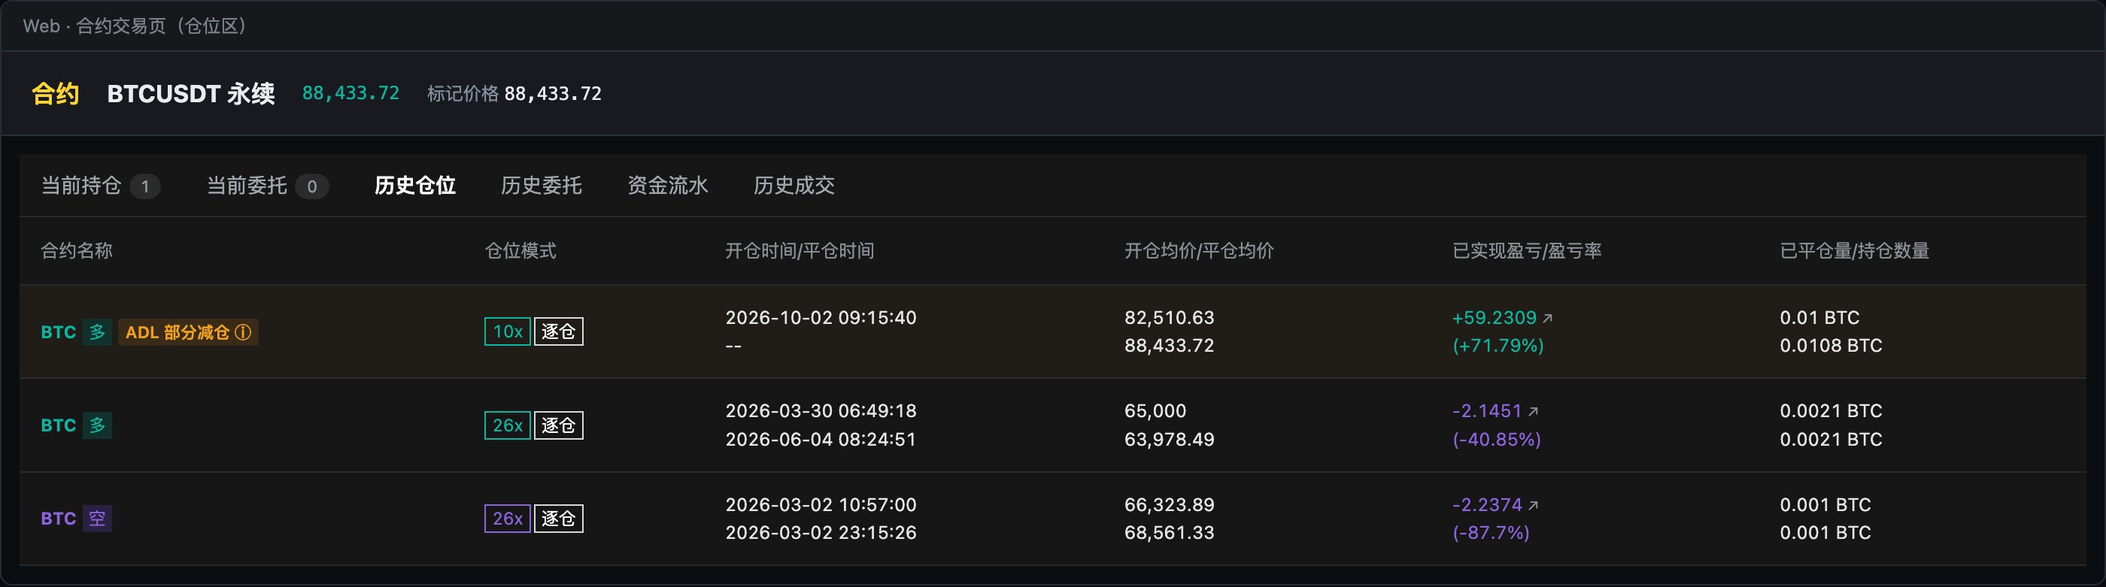
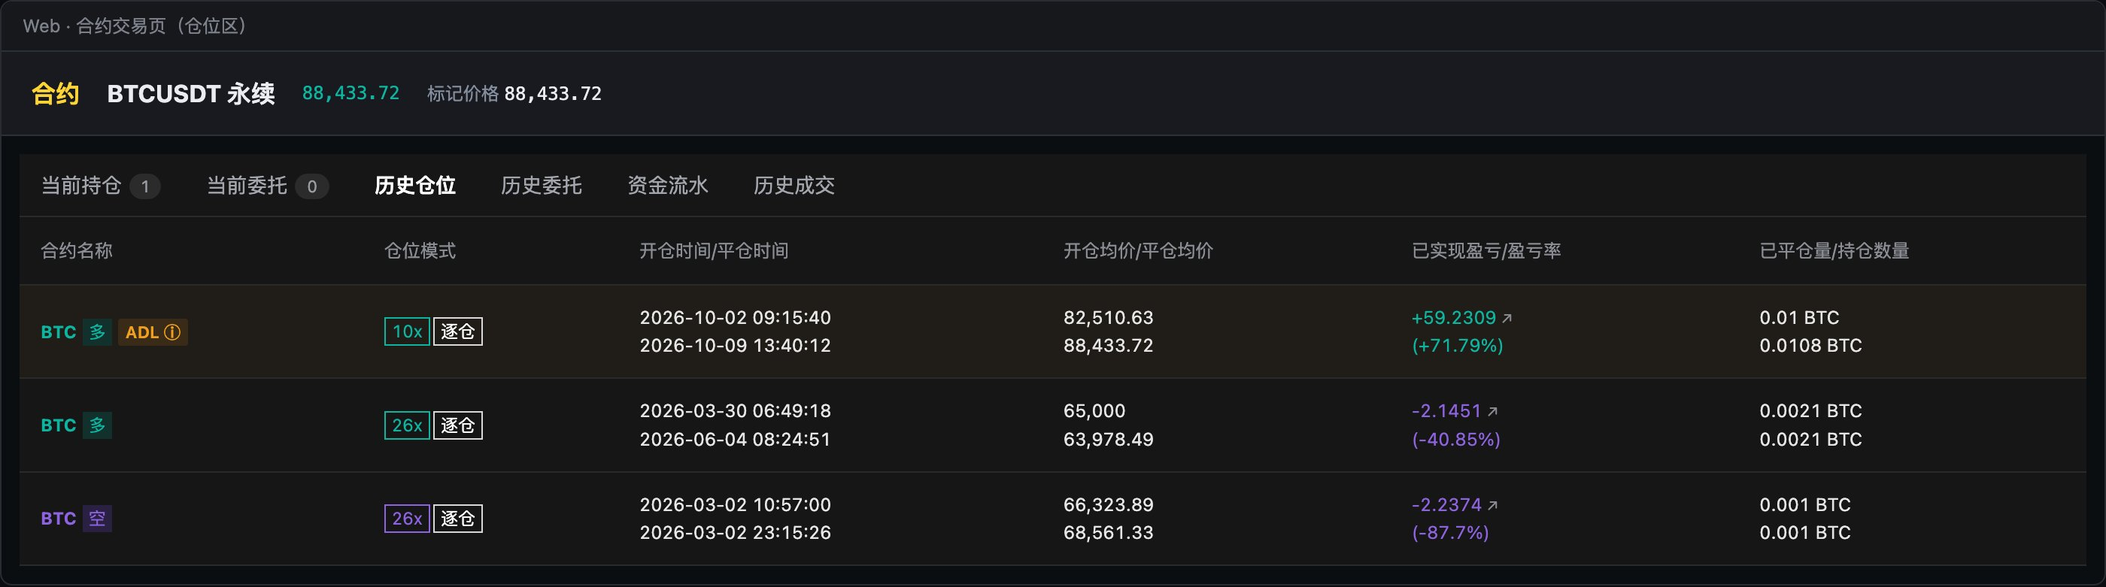
change: 用户端历史仓位沿用现有聚合展示(部分平仓也展示、平仓时间为最近一次),ADL统一显示ADL标签;PRD V2.2 同步

diff --git a/中台ADL减仓_PRD_V1.0.html b/中台ADL减仓_PRD_V1.0.html
@@ -74,7 +74,7 @@
 
 <div class="cover">
   <h1>中台 ADL 减仓 PRD</h1>
-  <div class="ver">版本 V2.1 · 2026-10-12 · 修订人 Rhys</div>
+  <div class="ver">版本 V2.2 · 2026-10-12 · 修订人 Rhys</div>
   <div class="sub">需求类型：0→1 · 规模 L ｜ 配套原型：<a href="https://forclaudecode.vercel.app/1009-中台ADL减仓.html">1009-中台ADL减仓.html</a> ｜ 规则来源：规则台账_ADL减仓 v1.0（R01–R19）</div>
 </div>
 
@@ -107,7 +107,7 @@
   <tr><th>维度</th><th>行业做法</th><th>本方案</th></tr>
   <tr><td>事前提示</td><td>五家持仓上均有 5 格 ADL 指示灯</td><td>沿用平台现有指示灯，并作为可减门槛</td></tr>
   <tr><td>仓位区事后展示</td><td>五家均不在剩余仓位上加标记，部分减仓只是数量变少</td><td>一致：不加任何标记</td></tr>
-  <tr><td>历史记录标识</td><td>四家都把 ADL 和普通平仓、强平分开标识；OKX 仓位历史区分「ADL 未全平 / 全平」</td><td>历史委托、成交记录标「ADL」；仓位历史区分「ADL 部分减仓 / ADL 全部平仓」</td></tr>
+  <tr><td>历史记录标识</td><td>四家都把 ADL 和普通平仓、强平分开标识；OKX 仓位历史区分「ADL 未全平 / 全平」</td><td>历史委托、成交记录、历史仓位均标「ADL」；历史仓位沿用现有按仓位聚合的展示方式</td></tr>
   <tr><td>成交价</td><td>Binance / Bybit / Gate 用破产价；OKX 通常用标记价格</td><td>执行时的标记价格（与 OKX 一致）</td></tr>
   <tr><td>手续费</td><td>仅 Bybit 收被减方 Maker 费，其余免收</td><td>不收</td></tr>
   <tr><td>挂单处理</td><td>Bybit / Gate 撤销被减用户的活动委托</td><td>撤销该仓位全部平仓类挂单</td></tr>
@@ -221,7 +221,7 @@ stateDiagram-v2
   <tr><td>F6</td><td>中台</td><td>「未实现盈亏」「回报率」支持排序</td><td><span class="tag-mod">调整</span></td><td>P1</td></tr>
   <tr><td>F7</td><td>中台</td><td>「持仓量/可平量」张 / 币 / USDT 切换，「自动减仓量」跟随</td><td><span class="tag-mod">调整</span></td><td>P1</td></tr>
   <tr><td>F8</td><td>App / Web</td><td>历史委托、成交记录显示「ADL」标签及说明</td><td><span class="tag-new">新增</span></td><td>P0</td></tr>
-  <tr><td>F9</td><td>App / Web</td><td>仓位历史区分「ADL 部分减仓 / ADL 全部平仓」</td><td><span class="tag-new">新增</span></td><td>P0</td></tr>
+  <tr><td>F9</td><td>App / Web</td><td>历史仓位：发生过 ADL 的仓位显示「ADL」标签</td><td><span class="tag-new">新增</span></td><td>P0</td></tr>
   <tr><td>F10</td><td>App / Web</td><td>被撤挂单显示「已撤销 · 因 ADL」</td><td><span class="tag-new">新增</span></td><td>P0</td></tr>
 </table>
 
@@ -236,7 +236,7 @@ flowchart LR
   subgraph 用户端
     P[当前持仓：数量变少 / 消失] --- H[历史委托：ADL 标签 + 被撤挂单]
     H --- T[成交记录：ADL 标签]
-    T --- PH[仓位历史：ADL 部分减仓 / 全部平仓]
+    T --- PH[历史仓位：ADL 标签]
   end
   R -. 同步 .-> P
 </div>
@@ -306,14 +306,14 @@ flowchart LR
 </table>
 
 <h4>3.3.5 用户端 · App / Web</h4>
-<p><strong>App · 合约页持仓区</strong>（ADL 前 → 部分 ADL 后 → 全部 ADL 后；虚线框为变化项，原型标注，非实际 UI）＋ <strong>App · 交易记录</strong>（部分 ADL 后：历史委托 / 历史仓位 / 交易历史 / 资金流水）</p><div class="phones"><figure class="fig"><img src="中台ADL减仓_PRD_assets/11_app_before.jpg" alt="图 7　ADL 前" loading="lazy"><figcaption>图 7　ADL 前</figcaption></figure><figure class="fig"><img src="中台ADL减仓_PRD_assets/12_app_partial.jpg" alt="图 8　部分 ADL 后" loading="lazy"><figcaption>图 8　部分 ADL 后</figcaption></figure><figure class="fig"><img src="中台ADL减仓_PRD_assets/13_app_full.jpg" alt="图 9　全部 ADL 后" loading="lazy"><figcaption>图 9　全部 ADL 后</figcaption></figure><figure class="fig"><img src="中台ADL减仓_PRD_assets/14_app_partial_hist.jpg" alt="图 10　交易记录 · 历史委托" loading="lazy"><figcaption>图 10　交易记录 · 历史委托</figcaption></figure><figure class="fig"><img src="中台ADL减仓_PRD_assets/15_app_partial_pos.jpg" alt="图 10-1　交易记录 · 历史仓位" loading="lazy"><figcaption>图 10-1　交易记录 · 历史仓位</figcaption></figure><figure class="fig"><img src="中台ADL减仓_PRD_assets/16_app_partial_fill.jpg" alt="图 10-2　交易记录 · 交易历史" loading="lazy"><figcaption>图 10-2　交易记录 · 交易历史</figcaption></figure><figure class="fig"><img src="中台ADL减仓_PRD_assets/17_app_flow.jpg" alt="图 10-3　交易记录 · 资金流水（不改动）" loading="lazy"><figcaption>图 10-3　交易记录 · 资金流水（不改动）</figcaption></figure></div><p><strong>Web · 合约页仓位区</strong>（页签：当前持仓 / 当前委托 / 历史仓位 / 历史委托〔限价&amp;市价 · 止盈止损 · 计划委托〕/ 资金流水 / 历史成交）</p><figure class="fig"><img src="中台ADL减仓_PRD_assets/07_web_before.jpg" alt="图 11　ADL 前 · 当前持仓（止盈 95,000）" loading="lazy"><figcaption>图 11　ADL 前 · 当前持仓（止盈 95,000）</figcaption></figure><figure class="fig"><img src="中台ADL减仓_PRD_assets/08_web_partial.jpg" alt="图 12　部分 ADL 后 · 当前持仓：数量变为 8 张，止盈被撤，无任何 ADL 标记" loading="lazy"><figcaption>图 12　部分 ADL 后 · 当前持仓：数量变为 8 张，止盈被撤，无任何 ADL 标记</figcaption></figure><figure class="fig"><img src="中台ADL减仓_PRD_assets/18_web_partial_phist.jpg" alt="图 13　部分 ADL 后 · 历史仓位：「ADL 部分减仓」，平仓时间「--」" loading="lazy"><figcaption>图 13　部分 ADL 后 · 历史仓位：「ADL 部分减仓」，平仓时间「--」</figcaption></figure><figure class="fig"><img src="中台ADL减仓_PRD_assets/09_web_partial_hist.jpg" alt="图 14　部分 ADL 后 · 历史委托 · 限价&市价：订单类型「ADL」" loading="lazy"><figcaption>图 14　部分 ADL 后 · 历史委托 · 限价&市价：订单类型「ADL」</figcaption></figure><figure class="fig"><img src="中台ADL减仓_PRD_assets/19_web_partial_tpsl.jpg" alt="图 15　部分 ADL 后 · 历史委托 · 止盈止损：订单状态「因 ADL 撤销」" loading="lazy"><figcaption>图 15　部分 ADL 后 · 历史委托 · 止盈止损：订单状态「因 ADL 撤销」</figcaption></figure><figure class="fig"><img src="中台ADL减仓_PRD_assets/20_web_partial_fill.jpg" alt="图 16　部分 ADL 后 · 历史成交：「ADL」标签，手续费 0" loading="lazy"><figcaption>图 16　部分 ADL 后 · 历史成交：「ADL」标签，手续费 0</figcaption></figure><figure class="fig"><img src="中台ADL减仓_PRD_assets/10_web_full_phist.jpg" alt="图 17　全部 ADL 后 · 历史仓位：「ADL 全部平仓」" loading="lazy"><figcaption>图 17　全部 ADL 后 · 历史仓位：「ADL 全部平仓」</figcaption></figure><p>App 与 Web 规则一致，页面名称不同：App「交易记录」页的页签为 历史委托 / 历史仓位 / 资金流水 / 交易历史，Web 为 历史仓位 / 历史委托（限价&amp;市价 · 止盈止损 · 计划委托）/ 资金流水 / 历史成交。以下以一笔 0.0108 BTC 的多仓被减 0.01 BTC 为例。ADL 记录中的数量统一用币单位（R19）；同页其他记录保持各端现有单位（App 现有为 USDT）。</p>
+<p><strong>App · 合约页持仓区</strong>（ADL 前 → 部分 ADL 后 → 全部 ADL 后；虚线框为变化项，原型标注，非实际 UI）＋ <strong>App · 交易记录</strong>（部分 ADL 后：历史委托 / 历史仓位 / 交易历史 / 资金流水）</p><div class="phones"><figure class="fig"><img src="中台ADL减仓_PRD_assets/11_app_before.jpg" alt="图 7　ADL 前" loading="lazy"><figcaption>图 7　ADL 前</figcaption></figure><figure class="fig"><img src="中台ADL减仓_PRD_assets/12_app_partial.jpg" alt="图 8　部分 ADL 后" loading="lazy"><figcaption>图 8　部分 ADL 后</figcaption></figure><figure class="fig"><img src="中台ADL减仓_PRD_assets/13_app_full.jpg" alt="图 9　全部 ADL 后" loading="lazy"><figcaption>图 9　全部 ADL 后</figcaption></figure><figure class="fig"><img src="中台ADL减仓_PRD_assets/14_app_partial_hist.jpg" alt="图 10　交易记录 · 历史委托" loading="lazy"><figcaption>图 10　交易记录 · 历史委托</figcaption></figure><figure class="fig"><img src="中台ADL减仓_PRD_assets/15_app_partial_pos.jpg" alt="图 10-1　交易记录 · 历史仓位（「ADL」标签）" loading="lazy"><figcaption>图 10-1　交易记录 · 历史仓位（「ADL」标签）</figcaption></figure><figure class="fig"><img src="中台ADL减仓_PRD_assets/16_app_partial_fill.jpg" alt="图 10-2　交易记录 · 交易历史" loading="lazy"><figcaption>图 10-2　交易记录 · 交易历史</figcaption></figure><figure class="fig"><img src="中台ADL减仓_PRD_assets/17_app_flow.jpg" alt="图 10-3　交易记录 · 资金流水（不改动）" loading="lazy"><figcaption>图 10-3　交易记录 · 资金流水（不改动）</figcaption></figure></div><p><strong>Web · 合约页仓位区</strong>（页签：当前持仓 / 当前委托 / 历史仓位 / 历史委托〔限价&amp;市价 · 止盈止损 · 计划委托〕/ 资金流水 / 历史成交）</p><figure class="fig"><img src="中台ADL减仓_PRD_assets/07_web_before.jpg" alt="图 11　ADL 前 · 当前持仓（止盈 95,000）" loading="lazy"><figcaption>图 11　ADL 前 · 当前持仓（止盈 95,000）</figcaption></figure><figure class="fig"><img src="中台ADL减仓_PRD_assets/08_web_partial.jpg" alt="图 12　部分 ADL 后 · 当前持仓：数量变为 8 张，止盈被撤，无任何 ADL 标记" loading="lazy"><figcaption>图 12　部分 ADL 后 · 当前持仓：数量变为 8 张，止盈被撤，无任何 ADL 标记</figcaption></figure><figure class="fig"><img src="中台ADL减仓_PRD_assets/18_web_partial_phist.jpg" alt="图 13　部分 ADL 后 · 历史仓位：「ADL」标签，平仓时间为 ADL 执行时间" loading="lazy"><figcaption>图 13　部分 ADL 后 · 历史仓位：「ADL」标签，平仓时间为 ADL 执行时间</figcaption></figure><figure class="fig"><img src="中台ADL减仓_PRD_assets/09_web_partial_hist.jpg" alt="图 14　部分 ADL 后 · 历史委托 · 限价&市价：订单类型「ADL」" loading="lazy"><figcaption>图 14　部分 ADL 后 · 历史委托 · 限价&市价：订单类型「ADL」</figcaption></figure><figure class="fig"><img src="中台ADL减仓_PRD_assets/19_web_partial_tpsl.jpg" alt="图 15　部分 ADL 后 · 历史委托 · 止盈止损：订单状态「因 ADL 撤销」" loading="lazy"><figcaption>图 15　部分 ADL 后 · 历史委托 · 止盈止损：订单状态「因 ADL 撤销」</figcaption></figure><figure class="fig"><img src="中台ADL减仓_PRD_assets/20_web_partial_fill.jpg" alt="图 16　部分 ADL 后 · 历史成交：「ADL」标签，手续费 0" loading="lazy"><figcaption>图 16　部分 ADL 后 · 历史成交：「ADL」标签，手续费 0</figcaption></figure><figure class="fig"><img src="中台ADL减仓_PRD_assets/10_web_full_phist.jpg" alt="图 17　全部 ADL 后 · 历史仓位：「ADL」标签，已平仓量 = 持仓数量" loading="lazy"><figcaption>图 17　全部 ADL 后 · 历史仓位：「ADL」标签，已平仓量 = 持仓数量</figcaption></figure><p>App 与 Web 规则一致，页面名称不同：App「交易记录」页的页签为 历史委托 / 历史仓位 / 资金流水 / 交易历史，Web 为 历史仓位 / 历史委托（限价&amp;市价 · 止盈止损 · 计划委托）/ 资金流水 / 历史成交。以下以一笔 0.0108 BTC 的多仓被减 0.01 BTC 为例。ADL 记录中的数量统一用币单位（R19）；同页其他记录保持各端现有单位（App 现有为 USDT）。</p>
 <table>
   <tr><th>位置</th><th>部分 ADL 后</th><th>全部 ADL 后</th></tr>
   <tr><td>当前持仓</td><td>仓位仍在，数量变为 0.0008 BTC。未实现盈亏、保证金按剩余部分显示；开仓均价、收益率不变。<strong>不加任何 ADL 标记</strong>。指示灯按现有逻辑重新计算。</td><td>仓位消失；无其他仓位时显示「暂无持仓」。</td></tr>
   <tr><td>当前委托</td><td>该仓位的平仓类挂单全部消失，委托数相应减少。</td><td>同左。</td></tr>
   <tr><td>历史委托</td><td colspan="2"><strong>App</strong>：新增一张卡片，标题 BTC_USDT，状态「已成交」；标签「卖出（平多）/ 买入（平空）· 逐仓 / 全仓 · 杠杆 · ADL」；「已成交/总数量(BTC)」如 0.01/0.01，进度条满；委托价格「--」；委托时间为执行时间。被撤的平仓挂单状态显示「已撤销 · 因 ADL」。<br><strong>Web</strong>：「限价&amp;市价」子页签新增一行：合约名称「BTC 平多 / 平空」，订单类型「ADL」标签，成交数量/委托数量如「0.01 BTC(100%) / 0.01 BTC」，成交均价为执行时标记价格，触发条件、委托价格「--」，平仓盈亏为本次已实现盈亏，手续费 0，订单状态「全部成交」。被撤的止盈止损单在「止盈止损」子页签中，订单状态显示「因 ADL 撤销」（与现有「用户撤销」并列）。「计划委托」不改动。</td></tr>
   <tr><td>交易历史（App）/ 历史成交（Web）</td><td colspan="2"><strong>App</strong>：卡片标题 BTCUSDT 旁加「ADL」标签；交易品种、成交数量（如 0.01 BTC）、手续费 0、成交价格（执行时标记价格）、时间、成交ID。<br><strong>Web</strong>：交易品种 BTCUSDT 旁加「ADL」标签；成交价格为执行时标记价格；成交数量如 0.01 BTC；手续费 0；时间、成交 ID。</td></tr>
-  <tr><td>历史仓位（App / Web）</td><td>App 标签 / Web 合约名称旁显示「ADL 部分减仓」；平仓均价（Web：开仓均价/平仓均价）、平仓数量（Web：已平仓量/持仓数量，如 0.01 BTC / 0.0108 BTC）、已实现盈亏 / 收益率、开仓时间；平仓时间显示「--」。</td><td>「ADL 全部平仓」，平仓时间为执行时间。</td></tr>
+  <tr><td>历史仓位（App / Web）</td><td colspan="2"><strong>沿用现有展示方式</strong>：一个仓位对应一条记录，每次平仓（含 ADL）后更新这一条——已平仓量累加、平仓均价按加权平均重算、已实现盈亏累加、平仓时间更新为最近一次平仓时间；部分平仓也会展示。发生过 ADL 的仓位，在 Web 合约名称旁 / App 标签行显示「<strong>ADL</strong>」标签。示例（部分 ADL 后）：开仓时间 2026-10-02 09:15:40 / 平仓时间 2026-10-09 13:40:12，已平仓量 / 持仓数量 0.01 BTC / 0.0108 BTC，已实现盈亏 +59.2309（+71.79%）。</td></tr>
   <tr><td>资金流水（App / Web）</td><td colspan="2"><strong>不改动</strong>。ADL 与普通平仓一样，不在资金流水中产生记录（R20）。</td></tr>
   <tr><td>「ADL」标签说明</td><td colspan="2">Web 鼠标悬浮 / App 点击「ADL」标签时显示：「自动减仓（ADL）：系统按标记价格减少您的部分或全部仓位，本次减仓不收取手续费，减仓后您可随时重新开仓。」<span class="tag-td">⚠ P17 文案待确认</span></td></tr>
   <tr><td>通知</td><td colspan="2">本期不发站内信、邮件、短信、推送 <span class="tag-td">⚠ P05</span></td></tr>
@@ -328,7 +328,7 @@ flowchart LR
   <tr><td>4</td><td>输入非数字、0 或负数</td><td>提示「请输入大于 0 的数字」/「减仓数量须大于 0」</td><td>—</td></tr>
   <tr><td>5</td><td>小数位数超过合约精度</td><td>提示「张数最多支持 N 位小数」或「BTC 数量最多支持 N 位小数」</td><td>R18</td></tr>
   <tr><td>6</td><td>数量 &gt; 持仓量（输入时）</td><td>提示「超过当前持仓量 X」，不可提交</td><td>R17</td></tr>
-  <tr><td>7</td><td>数量恰好 = 持仓量</td><td>允许；二次确认标注「全部平仓」；成功后仓位从列表移除，用户端仓位历史为「ADL 全部平仓」</td><td>—</td></tr>
+  <tr><td>7</td><td>数量恰好 = 持仓量</td><td>允许；二次确认标注「全部平仓」；成功后仓位从列表移除，用户端历史仓位该条记录带「ADL」标签，已平仓量 = 持仓数量</td><td>—</td></tr>
   <tr><td>8</td><td>数量 &gt; 可平量但 ≤ 持仓量</td><td>允许；执行前撤销全部平仓类挂单</td><td>R14 / R17</td></tr>
   <tr><td>9</td><td>仓位有平仓挂单，减仓数量 ≤ 可平量</td><td>仍撤销该仓位全部平仓类挂单</td><td>R14</td></tr>
   <tr><td>10</td><td>打开弹窗后用户自行平仓或另一运营已减，执行时数量 &gt; 当前持仓量</td><td>报错、不执行，弹窗刷新为最新持仓</td><td>R17</td></tr>
@@ -338,7 +338,7 @@ flowchart LR
   <tr><td>14</td><td>系统异常 / 超时</td><td>不产生成交，仓位不变，可重试</td><td>—</td></tr>
   <tr><td>15</td><td>重复点击「确认执行」</td><td>执行中按钮禁用，只提交一次</td><td>—</td></tr>
   <tr><td>16</td><td>同一仓位多次 ADL</td><td>允许；每次生成独立的委托和成交记录，「自动减仓量」累计</td><td>R13</td></tr>
-  <tr><td>17</td><td>同一仓位既有 ADL 又有用户自己的平仓，用户端仓位历史的平仓类型</td><td>推荐：取最近一次平仓的类型（OKX 做法）</td><td><span class="tag-td">⚠ P18</span></td></tr>
+  <tr><td>17</td><td>同一仓位既有 ADL 又有用户自己的平仓</td><td>历史仓位仍为一条聚合记录（数量、均价、盈亏合并计算）；只要该仓位发生过 ADL 就显示「ADL」标签</td><td><span class="tag-td">⚠ P18</span></td></tr>
   <tr><td>18</td><td>双向持仓，同一合约同时有多仓和空仓</td><td>按持仓 ID 分别判断、分别操作，互不影响</td><td>R01</td></tr>
   <tr><td>19</td><td>逐仓仓位被部分 ADL</td><td>保证金按比例释放，连同已实现盈亏立即回到交易账户可用；剩余仓位的强平价基本不变</td><td>R16</td></tr>
   <tr><td>20</td><td>全仓仓位被部分 ADL</td><td>释放的保证金和已实现盈亏立即可用；对同账户其他仓位强平价的影响见 P07（推导为只会更安全）</td><td>R16 · <span class="tag-td">⚠ P07</span></td></tr>
@@ -427,7 +427,7 @@ flowchart LR
   <tr><td>P15</td><td>仓位强平中、合约暂停交易 / 结算 / 下架时能否执行</td><td>拒绝执行</td><td>3.4 #13、5.2</td></tr>
   <tr><td>P16</td><td>哪些中台角色能看到和使用「ADL减仓」</td><td>与现有「平仓」按钮权限一致</td><td>3.3.1</td></tr>
   <tr><td>P17</td><td>用户端「ADL」标签的说明文案</td><td>见 3.3.5，需 PM / 客服确认</td><td>3.3.5</td></tr>
-  <tr><td>P18</td><td>同一仓位既有 ADL 又有普通平仓时，仓位历史的平仓类型怎么显示</td><td>取最近一次平仓的类型</td><td>3.4 #17</td></tr>
+  <tr><td>P18</td><td>同一仓位既有 ADL 又有普通平仓时，历史仓位的「ADL」标签规则</td><td>只要发生过 ADL 即显示</td><td>3.4 #17</td></tr>
   <tr><td>P21</td><td>USDT 输入的折算规则：按输入时标记价格折算为张数并向下取整、执行按张数；USDT 保留 2 位小数</td><td>按左侧规则</td><td>3.3.2、3.4 #24–25、5.2</td></tr>
 </table>
 </div>
@@ -448,6 +448,7 @@ flowchart LR
   <tr><td>V1.9</td><td>2026-10-12</td><td>初稿（评审前）</td><td>Web 仓位区按现有页面重做（当前持仓 / 当前委托 / 历史仓位 / 历史委托〔限价&amp;市价 · 止盈止损 · 计划委托〕/ 资金流水 / 历史成交）；被撤止盈止损单状态改为「因 ADL 撤销」；Web 截图扩为图 11–17</td><td>PM 提供现有 Web 页面</td></tr>
   <tr><td>V2.0</td><td>2026-10-12</td><td>初稿（评审前）</td><td>中台筛选「订单 ID」改「持仓 ID」、删除「保证金模式」；减仓弹窗删除「账户类型」；列表与弹窗单位改为下拉框并新增 USDT（按标记价折算，新增 P21）；图 1、2、4、5 重截</td><td>PM 反馈</td></tr>
   <tr><td>V2.1</td><td>2026-10-12</td><td>初稿（评审前）</td><td>减仓弹窗重新整理：上方固定为「当前仓位（操作前）」；执行预览分「本次减仓」（成交价、数量、价值、本次减仓预估盈亏、手续费）与「减仓后预估」（剩余持仓、剩余持仓价值、减仓后未实现盈亏、减仓后预估总已实现盈亏，均以「当前 → 减仓后」展示）；图 2、图 4 重截</td><td>业务方反馈：弹窗信息有点乱，希望前后对比更直观</td></tr>
+  <tr><td>V2.2</td><td>2026-10-12</td><td>初稿（评审前）</td><td>历史仓位改为沿用现有按仓位聚合的展示方式（部分平仓也展示、平仓时间为最近一次），ADL 统一显示「ADL」标签，取消「ADL 部分减仓 / 全部平仓」区分；P18 改为标签规则；图 10-1、13、17 重截</td><td>PM 提供现有手动减仓的历史仓位截图</td></tr>
 </table>
 
 </div></div>

diff --git a/1009-中台ADL减仓.html b/1009-中台ADL减仓.html
@@ -854,7 +854,7 @@ function aHRender(){
         +ordCard('已撤销 · 因 ADL','<span class="tg s">卖出</span><span class="tg">逐仓</span><span class="tg b">10x</span><span class="tg">止盈</span>',prog('USDT',0,'1026',false),'95000','2026-10-02 09:16:02'):'')
         +ordCard('已成交','<span class="tg b">买入</span><span class="tg">逐仓</span><span class="tg b">10x</span>',prog('USDT',openNotional,openNotional,true),'市价','2026-10-02 09:15:40');
   const posCard=(tags,cls,price,qty,pr,ot,ct)=>`<div class="tc"><div class="hd"><span>BTC_USDT</span></div><div class="tags">${tags}</div><div class="g2">${kv('平仓均价',price)}${kv('平仓数量',qty)}${kv('已实现盈亏/收益率',pr,cls)}${kv('开仓时间',ot)}${kv('平仓时间',ct)}</div></div>`;
-  H.pos=(done?posCard('<span class="tg b">多</span><span class="tg">逐仓</span><span class="tg b">10x</span>'+adlTag(aState==='full'?'ADL 全部平仓':'ADL 部分减仓'),'a-up',A.mark.toFixed(2),q+' BTC',`+${pnl.toFixed(4)} / +${roe.toFixed(2)}%`,'2026-10-02 09:15:40',aState==='full'?T:'--'):'')
+  H.pos=(done?posCard('<span class="tg b">多</span><span class="tg">逐仓</span><span class="tg b">10x</span>'+adlTag('ADL'),'a-up',A.mark.toFixed(2),q+' BTC',`+${pnl.toFixed(4)} / +${roe.toFixed(2)}%`,'2026-10-02 09:15:40',T):'')
         +posCard('<span class="tg b">多</span><span class="tg">逐仓</span><span class="tg b">26x</span>','a-down','63978.49','176.259825 USDT','-2.1451 / -40.84%','2026-03-30 06:49:18','2026-06-04 08:24:51');
   const flowCard=(amt,time,id)=>`<div class="tc"><div class="hd"><span>BTCUSDT</span></div><div class="g2">${kv('数量',amt+' USDT','a-down')}${kv('类型','资金费用')}${kv('时间',time)}${kv('成交ID',id)}</div></div>`;
   H.flow=`<div class="tc-note">原型标注：资金流水本期不改动。ADL 与普通平仓一样，不在资金流水中产生记录（R20）。</div>`
@@ -880,7 +880,7 @@ function uRender(){
   if(uT==='open'){h=st.ord?`<table class="wt"><thead><tr><th>合约名称</th><th>委托时间</th><th>成交数量/委托数量</th><th>委托价格</th><th>订单状态</th><th>订单 ID</th></tr></thead><tbody><tr>
      <td>${sym('开多')}</td><td>2026-10-02 09:16:02</td><td><span class="pct">0 张(0%)</span><br>108 张</td><td>止盈: <span class="up">95,000</span><br>止损: --</td><td>等待触发</td><td>${cp('678732202145783808')}</td></tr></tbody></table>`:empty('暂无委托')}
   if(uT==='phist'){
-    const adlRow=done?`<tr class="hl"><td>${sym('多')}${chip(full?'ADL 全部平仓':'ADL 部分减仓')}</td><td>${lev(10)}</td><td>2026-10-02 09:15:40<br>${full?T:'--'}</td><td>${af(A.entry)}<br>${af(A.mark)}</td>
+    const adlRow=done?`<tr class="hl"><td>${sym('多')}${chip('ADL')}</td><td>${lev(10)}</td><td>2026-10-02 09:15:40<br>${T}</td><td>${af(A.entry)}<br>${af(A.mark)}</td>
        <td class="up">+${pnl.toFixed(4)}<span class="ic">↗</span><br>(+${roe.toFixed(2)}%)</td><td>${q} BTC<br>0.0108 BTC</td></tr>`:'';
     h=`<table class="wt"><thead><tr><th>合约名称</th><th>仓位模式</th><th>开仓时间/平仓时间</th><th>开仓均价/平仓均价</th><th>已实现盈亏/盈亏率</th><th>已平仓量/持仓数量</th></tr></thead><tbody>${adlRow}
        <tr><td>${sym('多')}</td><td>${lev(26)}</td><td>2026-03-30 06:49:18<br>2026-06-04 08:24:51</td><td>65,000<br>63,978.49</td><td class="dn">-2.1451<span class="ic">↗</span><br>(-40.85%)</td><td>0.0021 BTC<br>0.0021 BTC</td></tr>
